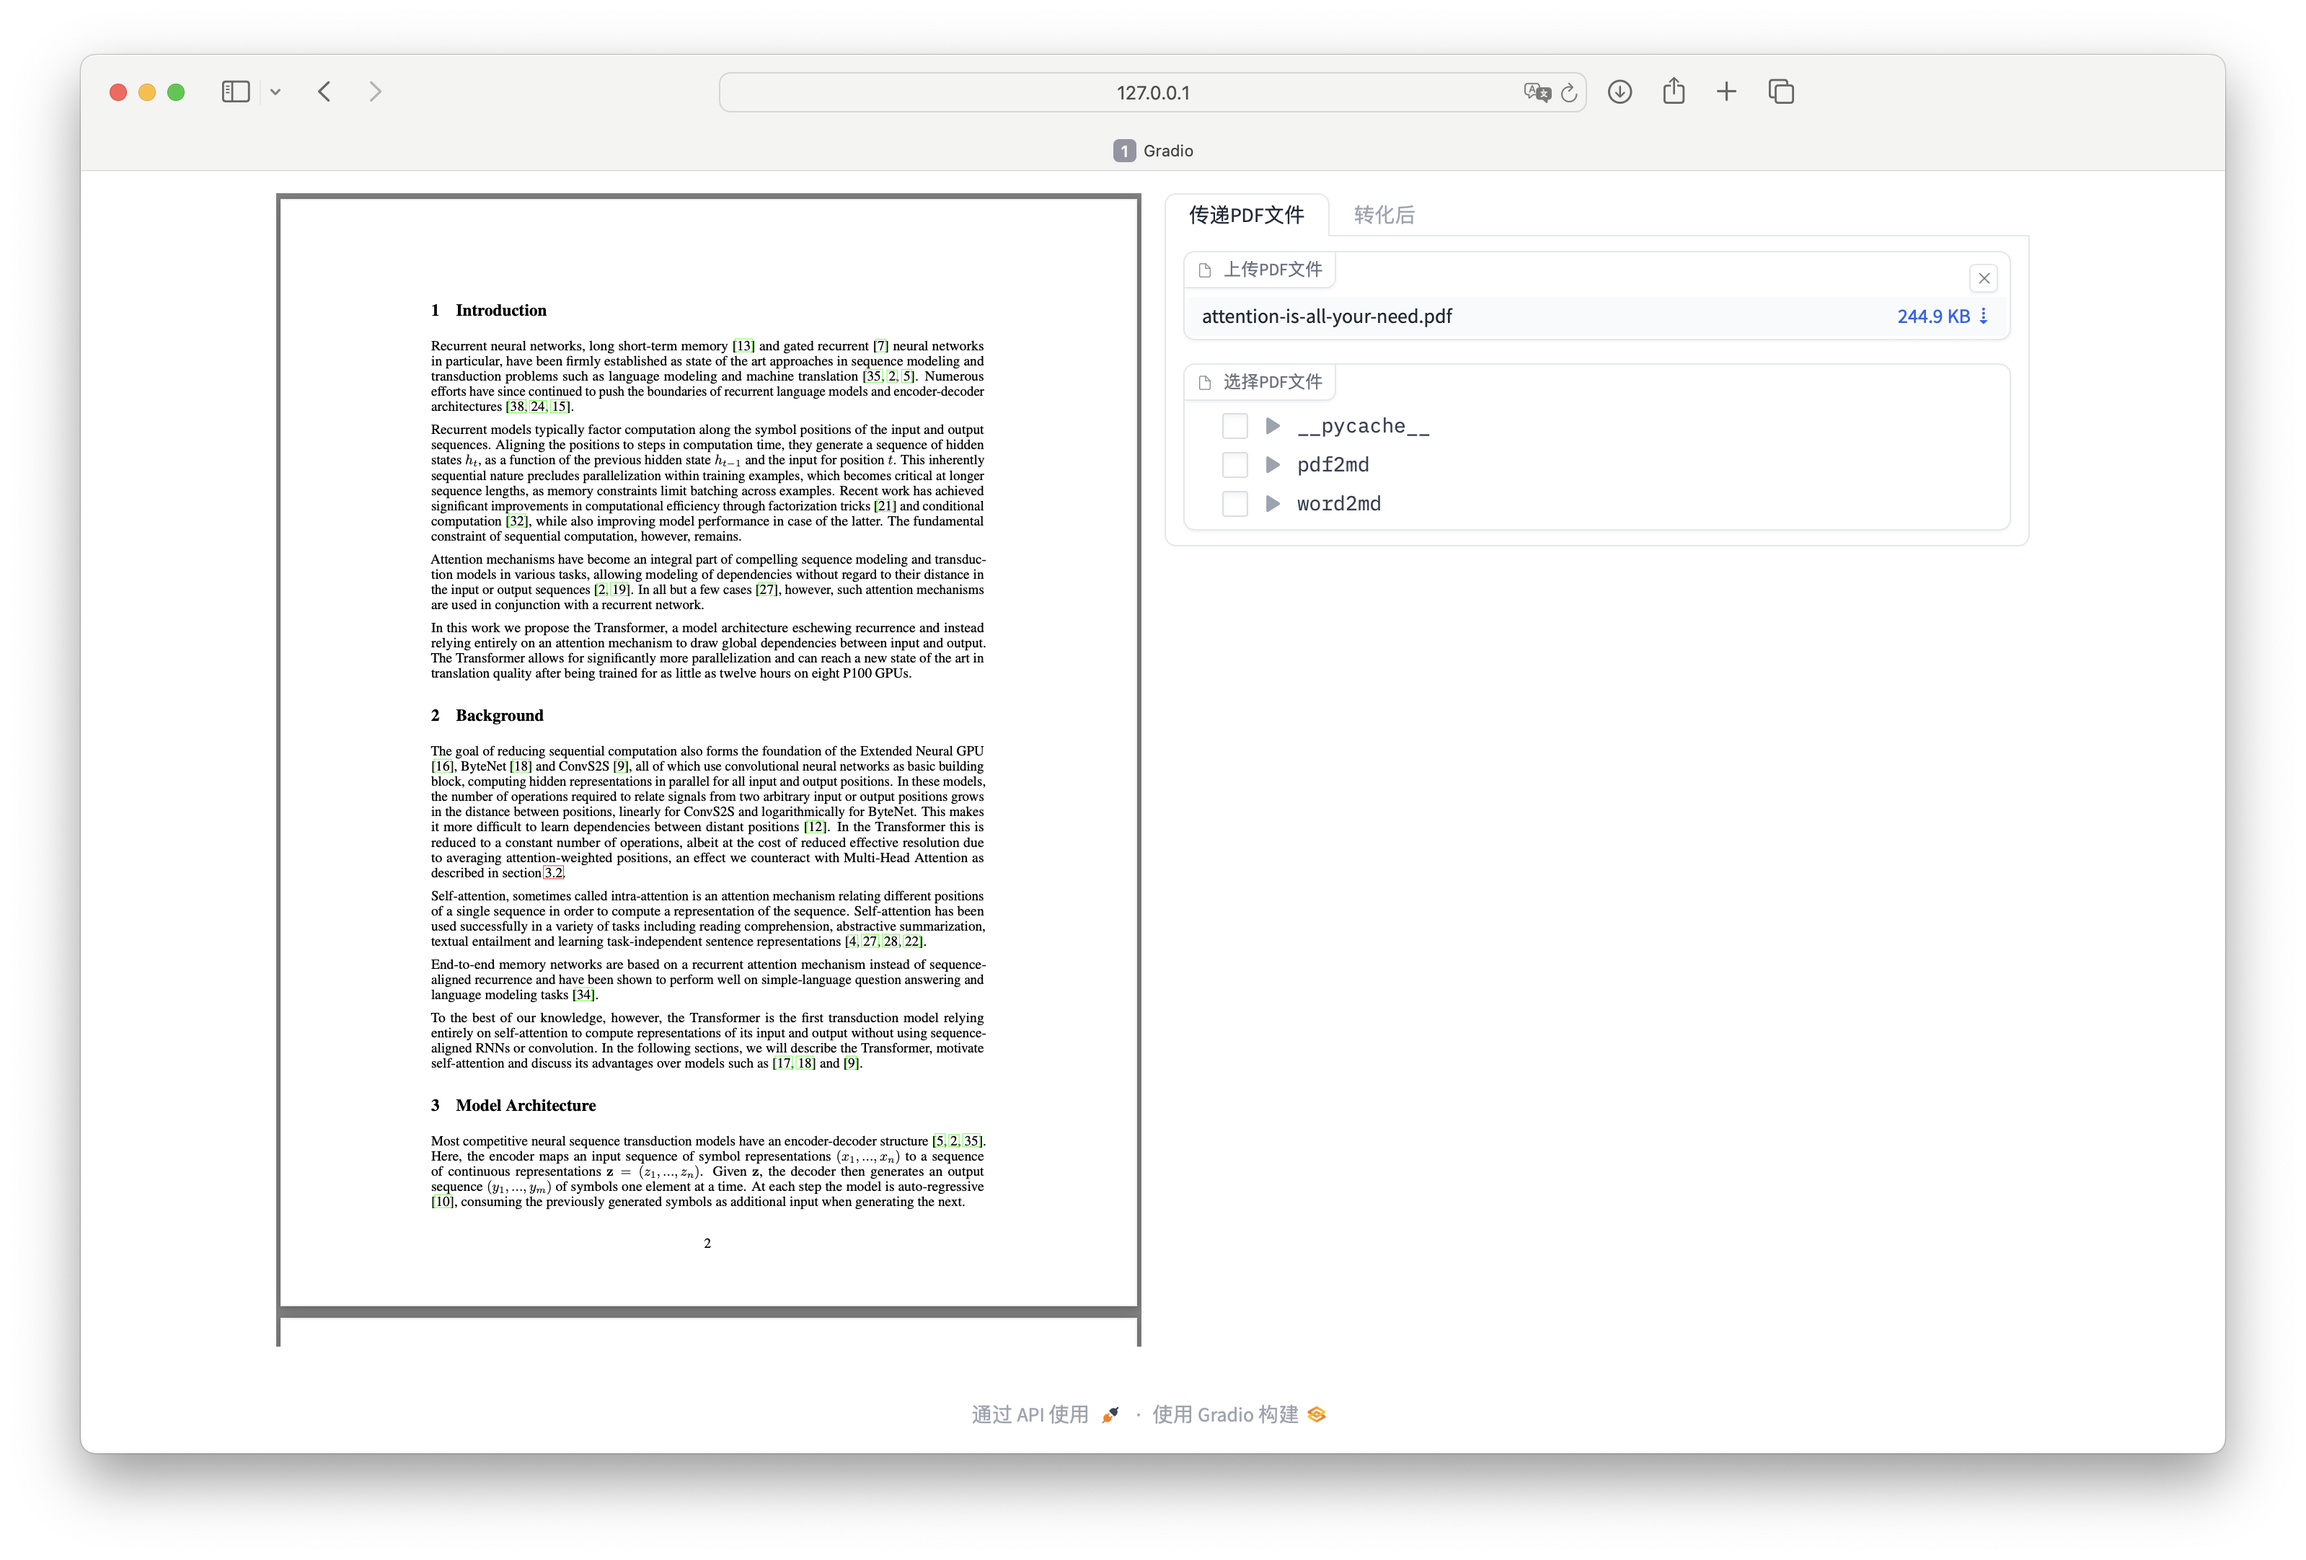
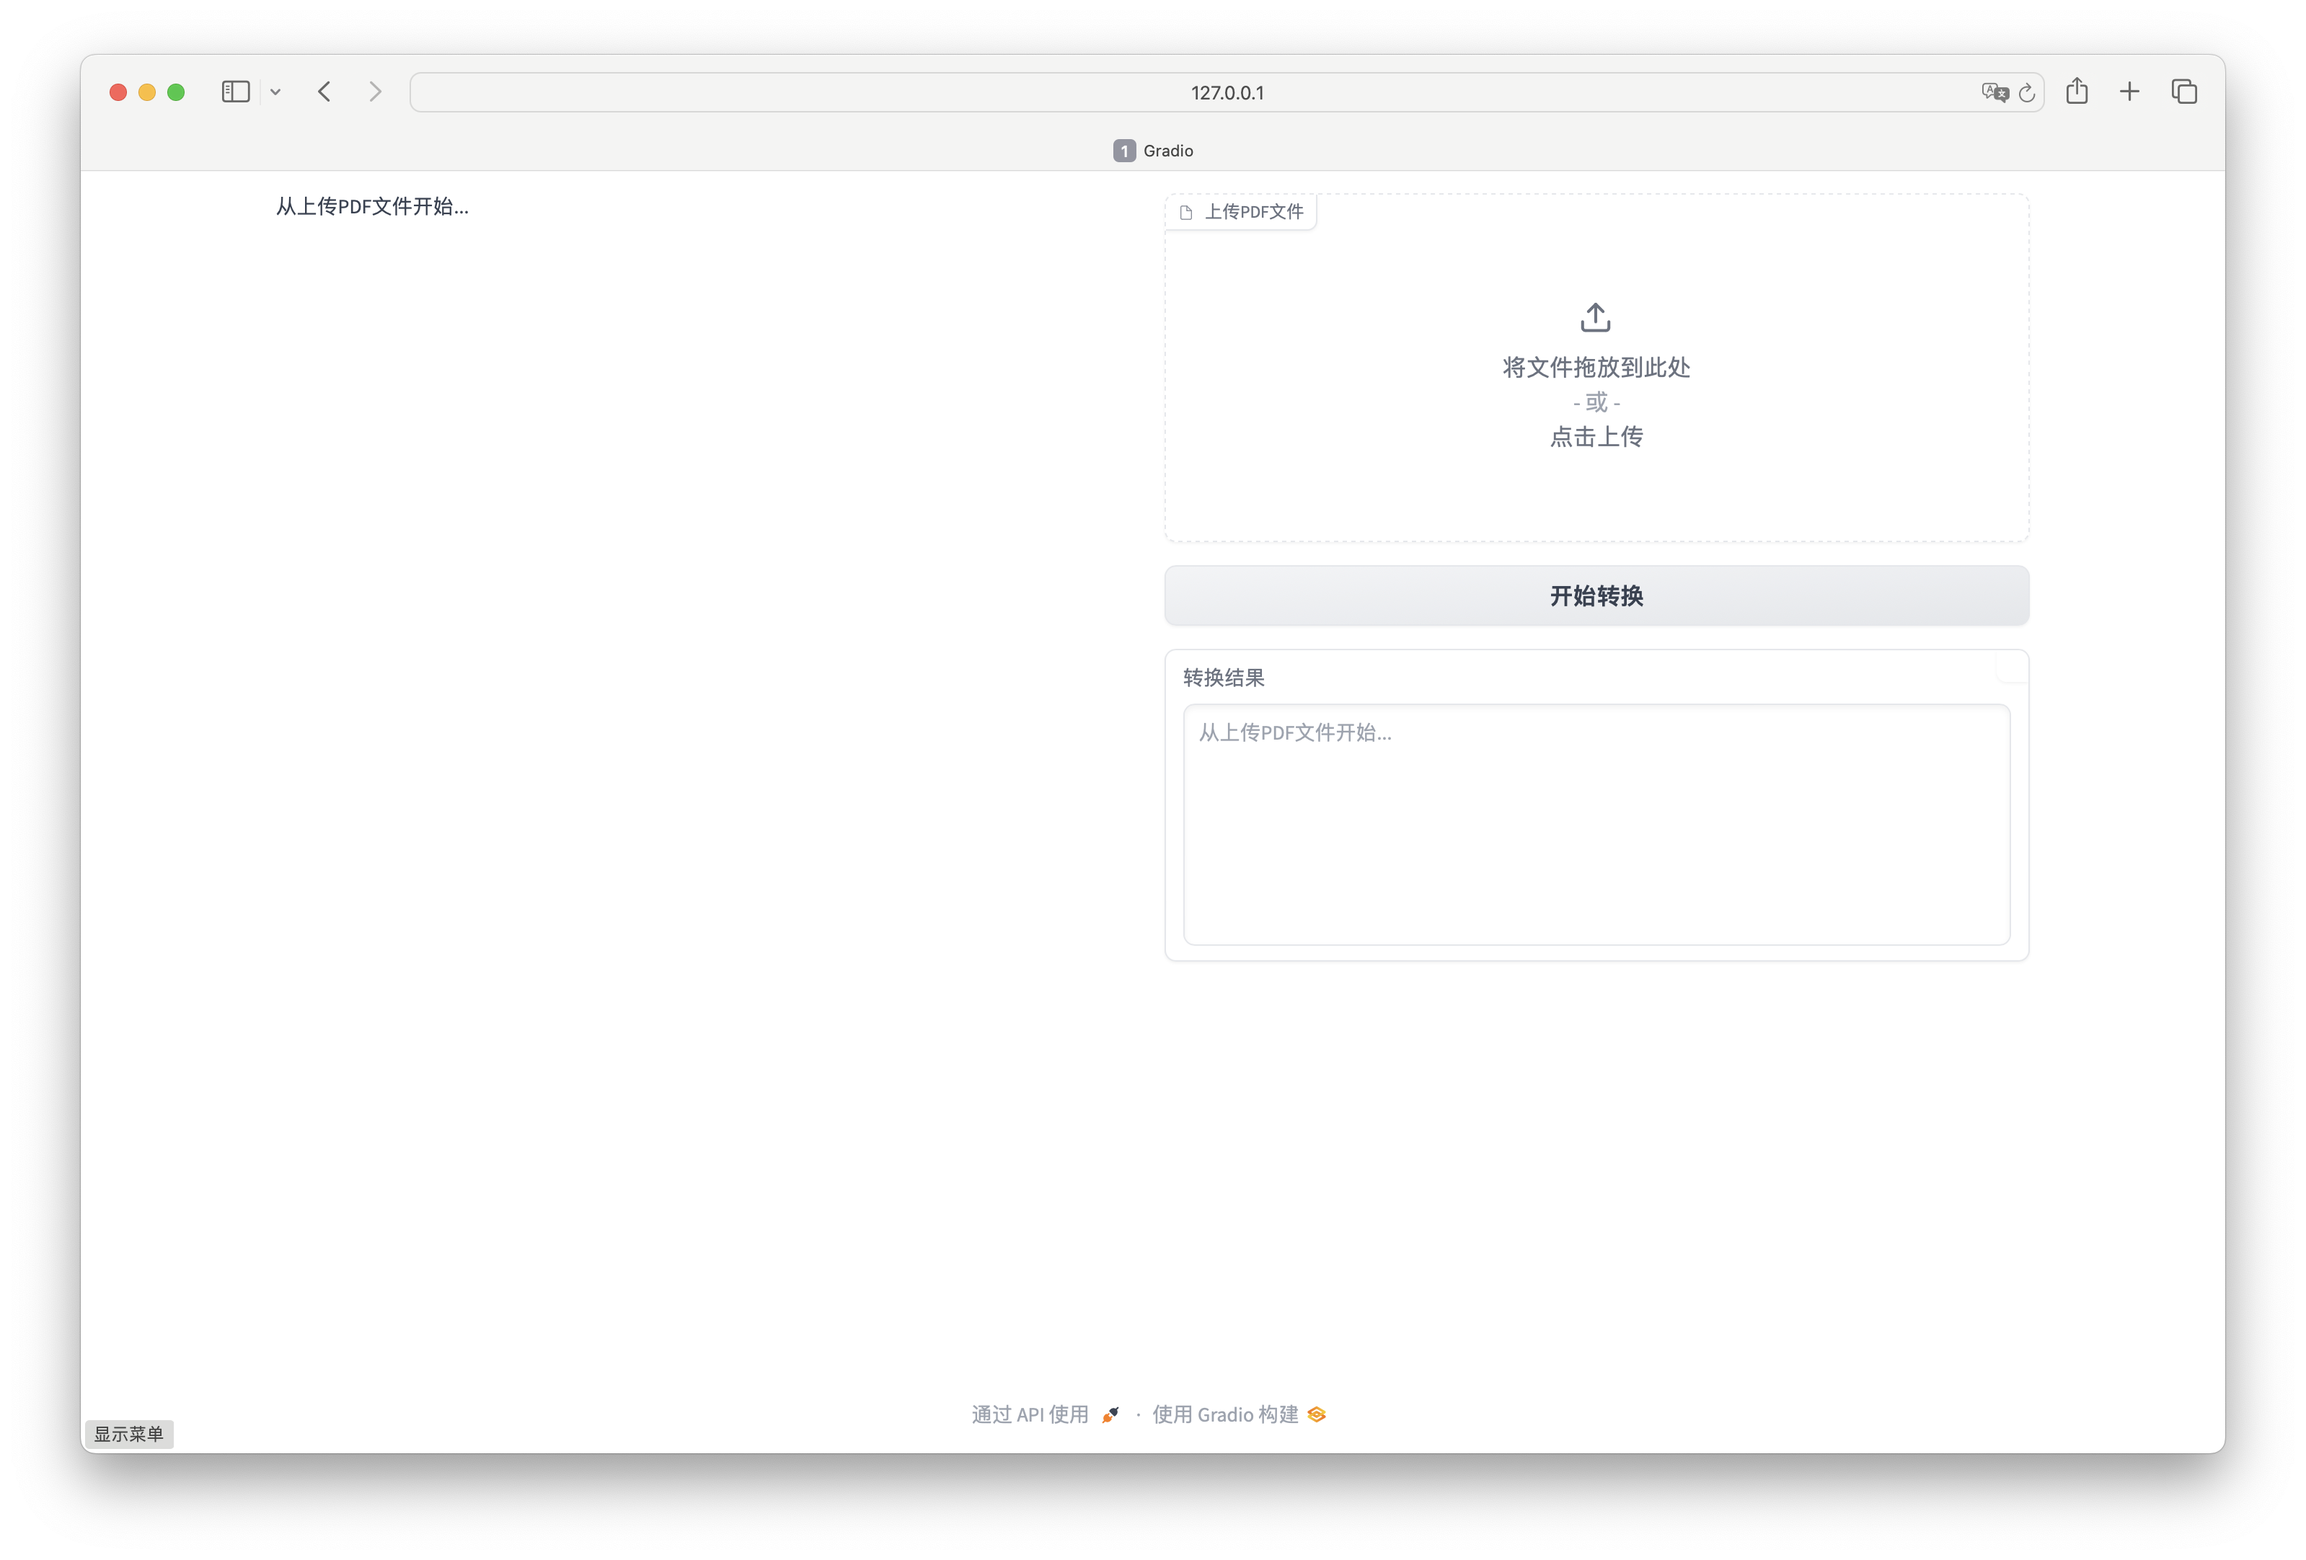
chore: Update demo
- update launch method
- rearage widget in web
- improve prompt
- pass the lock for region
- replace gr.Progress with tqdm.tqdm
- fix bug about format cause by pdf_md_transformer.clean()

diff --git a/src/app.py b/src/app.py
@@ -36,22 +36,20 @@ with gr.Blocks() as demo:
         with gr.Column():
             output_pdf = gr.HTML("从上传PDF文件开始...")
         with gr.Column():
-            with gr.Tab(label="传递PDF文件"):
-                input_pdf = gr.File(label="上传PDF文件")
-                explorer = gr.FileExplorer(
-                    label="选择PDF文件", file_count="single", glob="*.pdf"
-                )
+            input_pdf = gr.File(label="上传PDF文件")
 
-            with gr.Tab(label="转化后"):
-                with gr.Row():
-                    output_md = gr.Textbox(
-                        "从上传PDF文件开始...",
-                        show_copy_button=True,
-                        interactive=True,
-                    )
+            transform_btn = gr.Button("开始转换")
+
+            output_md = gr.TextArea(
+                placeholder="从上传PDF文件开始...",
+                show_copy_button=True,
+                interactive=True,
+                label="转换结果",
+            )
 
     input_pdf.change(pdf2base64, inputs=input_pdf, outputs=output_pdf)
-    explorer.change(pdf2base64, inputs=explorer, outputs=output_pdf)
-    input_pdf.change(update_markdown, inputs=input_pdf, outputs=output_md)
-    explorer.change(update_markdown, inputs=explorer, outputs=output_md)
+
+    # update the markdown text
+    transform_btn.click(update_markdown, inputs=input_pdf, outputs=output_md)
+
 demo.launch()

diff --git a/src/pdf2md/pdf2md.py b/src/pdf2md/pdf2md.py
@@ -47,14 +47,13 @@ class pdf_md_transformer:
         else:
             raise ValueError(f"invalid platform, selcet one of {hp.valid_platforms}")
 
-    def retrun_md(self, progress=gr.Progress()):
+    def retrun_md(self):
         """
         append the ocred text to a list.
         """
-        progress(0, desc="generating...", total=len(self.types))
         txt_list = []
         types, clips = self.types, self.clips
-        for type, clip in progress.tqdm(zip(types, clips), total=len(types)):
+        for type, clip in tqdm(zip(types, clips), total=len(types)):
             if type not in ("table", "figure"):
                 text, _ = self.ocr_model.predict(clip)
                 if text == []:
@@ -98,7 +97,7 @@ class pdf_md_transformer:
             prompt = ""
 
         text = prompt + "\n".join(obj_list).strip()
-        return self.text_formater.clean(text) + "\n\n"
+        return self.text_formater.clean(text)
 
     def predict(self, pdf_path, page_num=None):
         """

diff --git a/src/pdf2md/llm/gemini.py b/src/pdf2md/llm/gemini.py
@@ -54,7 +54,9 @@ class gemini_text_formater:
         - return:
             - genai.GenerativeModel: the model object
         """
-        genai.configure(api_key=self.api_key)
+
+        # add transport="rest" to fix the proxy and region error
+        genai.configure(api_key=self.api_key, transport="rest")
         if self.is_model_valid(model_name):
             return genai.GenerativeModel(model_name)
         else:

diff --git a/src/pdf2md/hp_pdf2md.py b/src/pdf2md/hp_pdf2md.py
@@ -53,4 +53,7 @@ class hp:
         + "the following text is an equation, please correct it by latex or markdown:\n"
     )
 
-    text_promp = comment_prompt + "the following text is a text, please correct it:\n"
+    text_promp = (
+        comment_prompt
+        + "the following text is a text from **same paragraph**, please correct it:\n"
+    )

diff --git a/README.md b/README.md
@@ -47,19 +47,22 @@ pip install -r requirements.yml
 
 ## 使用方法
 
-### Mac平台
+### ollama
 
-1. `brew install ollama`
-2. `ollama pull xxxx`, 在这里使用`ollama pull gemma:7b`
-3. `ollama serve`启动服务
-4. `cd xxx/src/`
-5. `python app.py`
+1. 启动ollama服务
+2. 在`hp_api.py`修改`ollama_model_name`,`ollama_stream`和`ollama_api`
+3. `cd xxx/src/`
+4. `python app.py`
+
+### gemini
+
+1. 在`hp_api.py`修改`gemini_model_name`,`gemini_api_key`和`gemini_stream`
+2. `cd xxx/src/`
+3. `python app.py`
+
+## demo
 
 ![pdf](./assess/pdf.png)
 
-![markdown](./assess/markdown.png)
-
-### Win平台
-
-1. `winget install ollama`
-2. 其余同上
+![one_col](./assess/one_col.png)
+![two_col](./assess/two_col.png)
